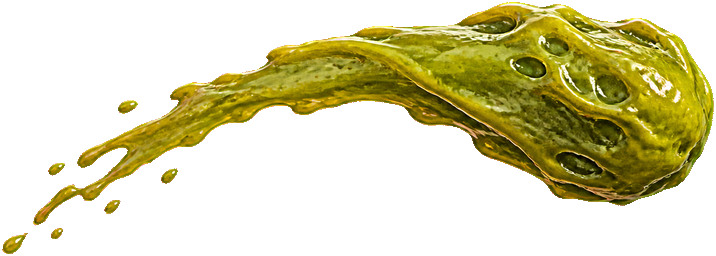
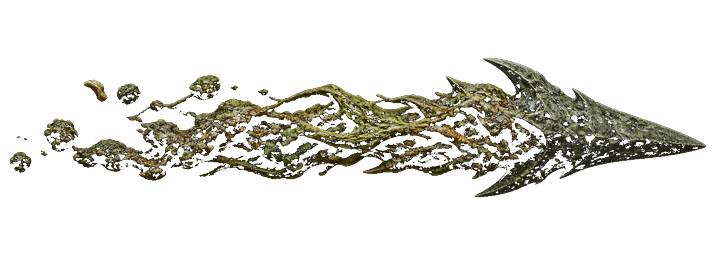
Bind Limner-signed fx_spit (ASSET_VER 80). (#169)
Barbed chitin venom-tail, no glow-ball. KEEP idles unchanged.

diff --git a/src/ui/Ch1RubbleLoad.test.js b/src/ui/Ch1RubbleLoad.test.js
@@ -45,7 +45,7 @@ assert(!/else if\(okTex\)\{/.test(html),
   'generated TEX diamonds are not a first-frame floor/wall fallback');
 assert(/tile_floor_mine\.png\?v=60/.test(html) && /tile_wall_worked\.png\?v=60/.test(html),
   'mine floor and worked wall are preloaded before first present');
-assert(/ASSET_VER='79'/.test(html), 'asset cache-bust matches punched living-Macar sheets');
+assert(/ASSET_VER='80'/.test(html), 'asset cache-bust matches punched living-Macar sheets');
 assert(/function scatterBurialRubble\(/.test(html) && /fallen:1/.test(html) && /k:'dust'/.test(html),
   'cave-in entry scatters extra timber, stone, and dust around the burial');
 assert(/function drawFallenBeam\(/.test(html) && /function drawFloorDust\(/.test(html),

diff --git a/src/combat/ElvenkindBoots.test.js b/src/combat/ElvenkindBoots.test.js
@@ -23,7 +23,7 @@ function extractFn(name){
   return m[0];
 }
 
-assert(/ASSET_VER='79'/.test(html), 'ASSET_VER is unchanged');
+assert(/ASSET_VER='80'/.test(html), 'ASSET_VER is unchanged');
 assert(/function wornMoveMul\(/.test(html) && /function moveStep\(/.test(html),
   'wornMoveMul and moveStep exist (extract of move())');
 assert(/function wearingElvenkind\(/.test(html), 'shared wearingElvenkind helper exists');

diff --git a/src/combat/UseMagicItem.test.js b/src/combat/UseMagicItem.test.js
@@ -48,7 +48,7 @@ assert(/nocked|stays packed/.test(useFn), 'plus-shot ammo use is still nock/read
 assert(/EquipmentSlots\.isEquippable\(it\)/.test(useFn),
   'wearable misc (Displacement) dons through isEquippable before the generic buff+heal');
 
-assert(/ASSET_VER='79'/.test(html), 'ASSET_VER is unchanged');
+assert(/ASSET_VER='80'/.test(html), 'ASSET_VER is unchanged');
 
 const ctx={
   G:{equipped:{}},

diff --git a/index.html b/index.html
@@ -348,7 +348,7 @@ const FONT_QUOTE='"Cormorant Garamond",Palatino,Georgia,serif';
 
 /* ---------------------------- painted sprites (Baldur's Gate isometric) ---------------------------- */
 const SPR={};
-const ASSET_VER='79';
+const ASSET_VER='80';
 let SPLASH_STATE='loading';
 function assetUrl(src){
   const u=src+(src.indexOf('?')>=0?'&':'?')+'v='+ASSET_VER;

diff --git a/src/combat/LeftoverMagic.test.js b/src/combat/LeftoverMagic.test.js
@@ -26,7 +26,7 @@ function extractFn(name){
   return m[0];
 }
 
-assert(/ASSET_VER='79'/.test(html), 'ASSET_VER is unchanged');
+assert(/ASSET_VER='80'/.test(html), 'ASSET_VER is unchanged');
 assert(!/id:'vorpal'|id:'bag_of_holding'|id:'arrow_of_slaying'|id:'javelin_of_lightning'/.test(html),
   'no invented leftover-magic item ids');
 
